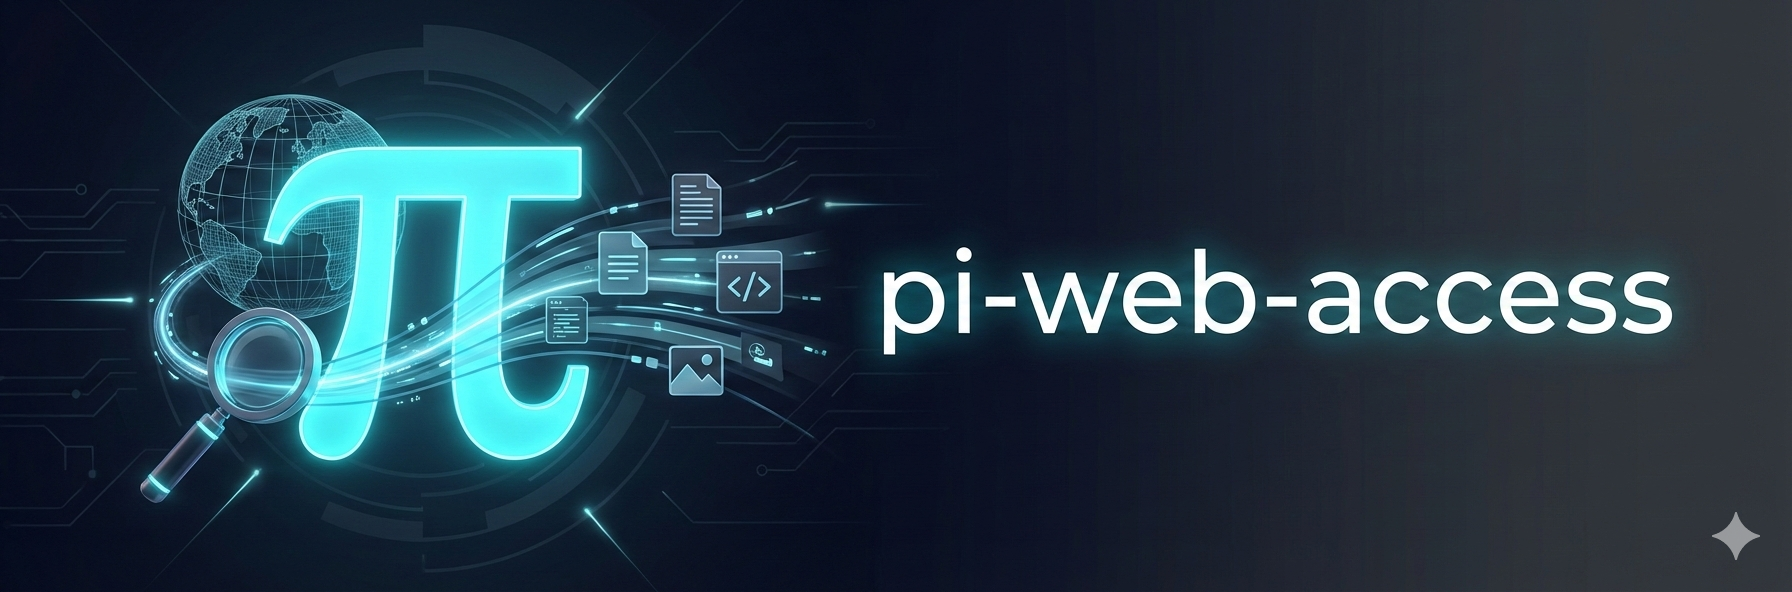
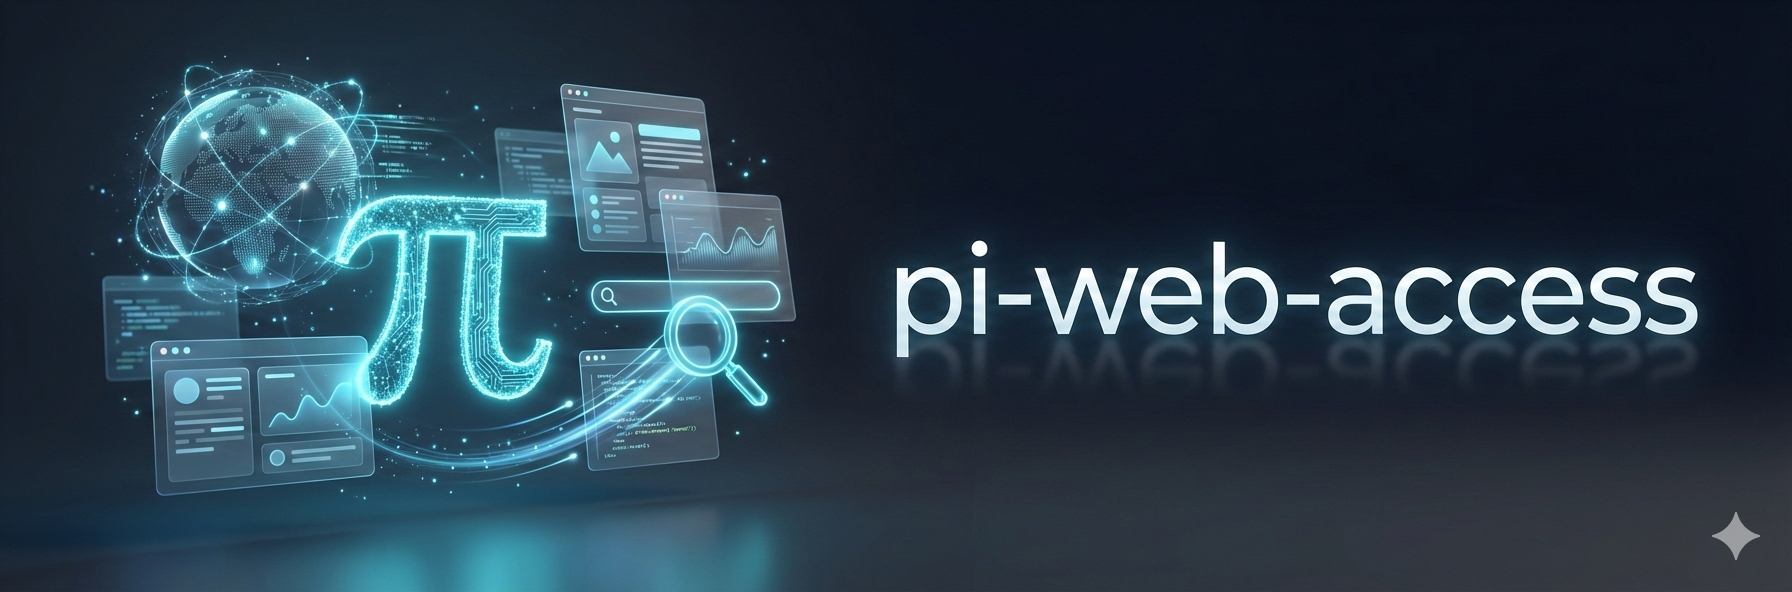
v0.4.2: Fix single-URL content retrieval, increase inline limit to 30K
- Single-URL fetches now store content for retrieval via get_search_content
- Increased inline content limit from 10K to 30K chars
- Larger content is truncated inline but fully retrievable
- Fixed get_search_content usage syntax in help messages
- Updated banner image

diff --git a/index.ts b/index.ts
@@ -21,6 +21,8 @@ let sessionActive = false;
 let widgetVisible = false;
 let widgetUnsubscribe: (() => void) | null = null;
 
+const MAX_INLINE_CONTENT = 30000; // Content returned directly to agent
+
 function formatSearchSummary(results: SearchResult[], answer: string): string {
 	let output = answer ? `${answer}\n\n---\n\n**Sources:**\n` : "";
 	output += results.map((r, i) => `${i + 1}. ${r.title}\n   ${r.url}`).join("\n\n");
@@ -388,7 +390,7 @@ export default function (pi: ExtensionAPI) {
 	pi.registerTool({
 		name: "fetch_content",
 		label: "Fetch Content",
-		description: "Fetch URL(s) and extract readable content as markdown. For multiple URLs, content is stored and can be retrieved with get_search_content.",
+		description: "Fetch URL(s) and extract readable content as markdown. Content is always stored and can be retrieved with get_search_content.",
 		parameters: Type.Object({
 			url: Type.Optional(Type.String({ description: "Single URL to fetch" })),
 			urls: Type.Optional(Type.Array(Type.String(), { description: "Multiple URLs (parallel)" })),
@@ -412,20 +414,7 @@ export default function (pi: ExtensionAPI) {
 			const successful = fetchResults.filter((r) => !r.error).length;
 			const totalChars = fetchResults.reduce((sum, r) => sum + r.content.length, 0);
 
-			if (urlList.length === 1) {
-				const result = fetchResults[0];
-				if (result.error) {
-					return {
-						content: [{ type: "text", text: `Error: ${result.error}` }],
-						details: { urls: urlList, urlCount: 1, successful: 0, error: result.error },
-					};
-				}
-				return {
-					content: [{ type: "text", text: result.content }],
-					details: { urls: urlList, urlCount: 1, successful: 1, totalChars: result.content.length, title: result.title },
-				};
-			}
-
+			// ALWAYS store results (even for single URL)
 			const responseId = generateId();
 			const data: StoredSearchData = {
 				id: responseId,
@@ -436,6 +425,42 @@ export default function (pi: ExtensionAPI) {
 			storeResult(responseId, data);
 			pi.appendEntry("web-search-results", data);
 
+			// Single URL: return content directly (possibly truncated) with responseId
+			if (urlList.length === 1) {
+				const result = fetchResults[0];
+				if (result.error) {
+					return {
+						content: [{ type: "text", text: `Error: ${result.error}` }],
+						details: { urls: urlList, urlCount: 1, successful: 0, error: result.error, responseId },
+					};
+				}
+
+				const fullLength = result.content.length;
+				const truncated = fullLength > MAX_INLINE_CONTENT;
+				let output = truncated
+					? result.content.slice(0, MAX_INLINE_CONTENT) + "\n\n[Content truncated...]"
+					: result.content;
+
+				if (truncated) {
+					output += `\n\n---\nShowing ${MAX_INLINE_CONTENT} of ${fullLength} chars. ` +
+						`Use get_search_content({ responseId: "${responseId}", urlIndex: 0 }) for full content.`;
+				}
+
+				return {
+					content: [{ type: "text", text: output }],
+					details: {
+						urls: urlList,
+						urlCount: 1,
+						successful: 1,
+						totalChars: fullLength,
+						title: result.title,
+						responseId,
+						truncated,
+					},
+				};
+			}
+
+			// Multi-URL: existing behavior (summary + responseId)
 			let output = "## Fetched URLs\n\n";
 			for (const { url, title, content, error } of fetchResults) {
 				if (error) {
@@ -444,7 +469,7 @@ export default function (pi: ExtensionAPI) {
 					output += `- ${title || url} (${content.length} chars)\n`;
 				}
 			}
-			output += `\n---\nUse get_search_content("${responseId}", {urlIndex: 0}) to retrieve full content.`;
+			output += `\n---\nUse get_search_content({ responseId: "${responseId}", urlIndex: 0 }) to retrieve full content.`;
 
 			return {
 				content: [{ type: "text", text: output }],
@@ -480,6 +505,8 @@ export default function (pi: ExtensionAPI) {
 				totalChars?: number;
 				error?: string;
 				title?: string;
+				truncated?: boolean;
+				responseId?: string;
 			};
 
 			if (details?.error) {
@@ -488,7 +515,10 @@ export default function (pi: ExtensionAPI) {
 
 			if (details?.urlCount === 1) {
 				const title = details?.title || "Untitled";
-				const statusLine = theme.fg("success", title) + theme.fg("muted", ` (${details?.totalChars ?? 0} chars)`);
+				let statusLine = theme.fg("success", title) + theme.fg("muted", ` (${details?.totalChars ?? 0} chars)`);
+				if (details?.truncated) {
+					statusLine += theme.fg("warning", " [truncated]");
+				}
 				if (!expanded) {
 					return new Text(statusLine, 0, 0);
 				}

diff --git a/extract.ts b/extract.ts
@@ -6,7 +6,6 @@ import { activityMonitor } from "./activity.js";
 import { extractRSCContent } from "./rsc-extract.js";
 import { extractPDFToMarkdown, isPDF } from "./pdf-extract.js";
 
-const MAX_CONTENT_LENGTH = 10000;
 const DEFAULT_TIMEOUT_MS = 30000;
 const CONCURRENT_LIMIT = 3;
 
@@ -128,10 +127,7 @@ export async function extractContent(
 
 		if (isPlainText) {
 			activityMonitor.logComplete(activityId, response.status);
-			let content = text;
-			if (content.length > MAX_CONTENT_LENGTH) {
-				content = content.slice(0, MAX_CONTENT_LENGTH) + "\n\n[Content truncated...]";
-			}
+			const content = text;
 			// Extract filename from URL as title
 			const urlPath = new URL(url).pathname;
 			const title = urlPath.split("/").pop() || url;
@@ -149,11 +145,7 @@ export async function extractContent(
 			const rscResult = extractRSCContent(html);
 			if (rscResult) {
 				activityMonitor.logComplete(activityId, response.status);
-				let content = rscResult.content;
-				if (content.length > MAX_CONTENT_LENGTH) {
-					content = content.slice(0, MAX_CONTENT_LENGTH) + "\n\n[Content truncated...]";
-				}
-				return { url, title: rscResult.title, content, error: null };
+				return { url, title: rscResult.title, content: rscResult.content, error: null };
 			}
 			
 			activityMonitor.logComplete(activityId, response.status);
@@ -165,10 +157,7 @@ export async function extractContent(
 			};
 		}
 
-		let markdown = turndown.turndown(article.content);
-		if (markdown.length > MAX_CONTENT_LENGTH) {
-			markdown = markdown.slice(0, MAX_CONTENT_LENGTH) + "\n\n[Content truncated...]";
-		}
+		const markdown = turndown.turndown(article.content);
 
 		activityMonitor.logComplete(activityId, response.status);
 		return {

diff --git a/CHANGELOG.md b/CHANGELOG.md
@@ -4,6 +4,21 @@ All notable changes to this project will be documented in this file.
 
 ## [Unreleased]
 
+## [0.4.2] - 2026-01-27
+
+### Fixed
+
+- Single-URL fetches now store content for retrieval via `get_search_content` (previously only multi-URL)
+- Corrected `get_search_content` usage syntax in fetch_content help messages
+
+### Changed
+
+- Increased inline content limit from 10K to 30K chars (larger content truncated but fully retrievable)
+
+### Added
+
+- Banner image for README
+
 ## [0.4.1] - 2026-01-26
 
 ### Changed
